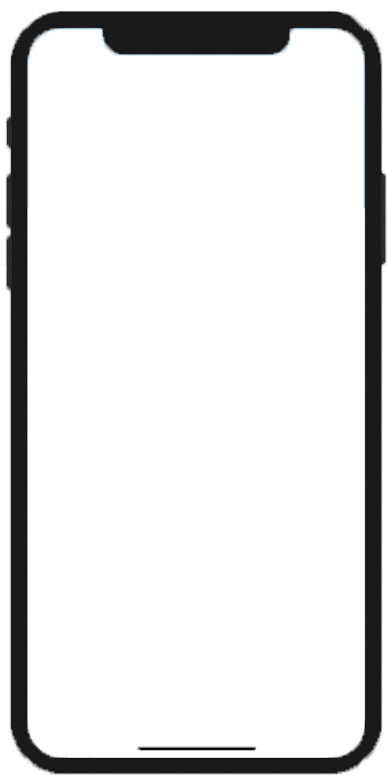
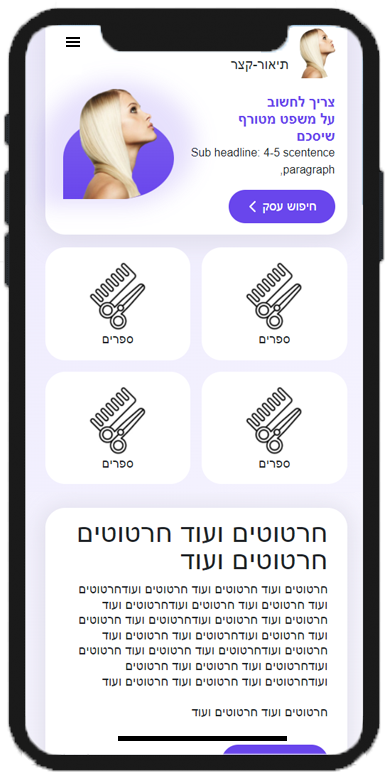
images

Changed region(s): [[0.0, 0.0, 1.0, 1.0], [0.6202, 0.4955, 0.7752, 0.6194], [0.2171, 0.4955, 0.3721, 0.6194]]

diff --git a/Frontend/angular13/src/app/screens/home/home.component.html b/Frontend/angular13/src/app/screens/home/home.component.html
@@ -58,18 +58,9 @@
                         חרטוטים ועודחרטוטים ועוד חרטוטים ועוד
                         חרטוטים ועודחרטוטים ועוד חרטוטים ועוד
                         חרטוטים ועודחרטוטים ועוד חרטוטים ועוד
-                        חרטוטים ועודחרטוטים<br><br> ועוד חרטוטים ועוד
+                        חרטוטים ועודחרטוטים<br>ועוד חרטוטים ועוד
                         חרטוטים ועודחרטוטים ועוד חרטוטים ועוד
-                        חרטוטים ועודחרטוטים ועוד חרטוטים ועוד
-                        חרטוטים ועודחרטוטים ועוד חרטוטים ועוד
-                        חרטוטים ועודחרטוטים ועוד חרטוטים ועוד
-                        חרטוטים ועודחרטוטים ועוד חרטוטים ועוד
-                        חרטוטים ועודחרטוטים ועוד חרטוטים ועוד
-                        חרטוטים ועודחרטוטים ועוד חרטוטים ועוד
-                        חרטוטים ועודחרטוטים ועוד חרטוטים ועוד
-חרטוטים ועודחרטוטים ועוד חרטוטים ועוד
-                        חרטוטים ועודחרטוטים ועוד חרטוטים ועוד
-                        חרטוטים ועוד</div><br><br>
+                        חרטוטים ועודחרטוטיםעודחרטוטים ועוד חרטוטי</div><br><br>
                         <a class="buttonR topR"  routerLink="/business"><div class="textR">חיפוש עסק</div><div class="arrowR"><img class="firstR" src="https://global-uploads.webflow.com/5ff6ce83c48750bc73e44538/5ffab72d5e7fe07221183a6d_Right.svg"><img class="secR" src="https://global-uploads.webflow.com/5ff6ce83c48750bc73e44538/5ffab72d5e7fe07221183a6d_Right.svg"></div></a>
 
                 </div>
@@ -91,13 +82,7 @@
                         חרטוטים ועודחרטוטים ועוד חרטוטים ועוד
                         חרטוטים ועודחרטוטים ועוד חרטוטים ועוד
                         חרטוטים ועוד<br><br>חרטוטים ועוד חרטוטים ועוד
-                        חרטוטים ועודחרטוטים ועוד חרטוטים ועוד
-                        חרטוטים ועודחרטוטים ועוד חרטוטים ועוד
-                        חרטוטים ועודחרטוטים ועוד חרטוטים ועוד
-                        חרטוטים ועוד<br><br>חרטוטים ועוד חרטוטים ועוד
-                        חרטוטים ועודחרטוטים ועוד חרטוטים ועוד
-                        חרטוטים ועודחרטוטים ועוד חרטוטים ועוד
-                        חרטוטים ועודחרטוטים ועוד חרטוטים ועוד
+                        חרטוטים ועודחרטוטים ועוד חרטוחרטוטים ועוד חרטוטים ועוד
                         חרטוטים ועוד</div>
                         <br>
                         <a class="buttonR topR" style="background-color: black;"  routerLink="/business"><div class="textR">חיפוש עסק</div><div class="arrowR"><img class="firstR" src="https://global-uploads.webflow.com/5ff6ce83c48750bc73e44538/5ffab72d5e7fe07221183a6d_Right.svg"><img class="secR" src="https://global-uploads.webflow.com/5ff6ce83c48750bc73e44538/5ffab72d5e7fe07221183a6d_Right.svg"></div></a>
@@ -128,13 +113,7 @@
                         חרטוטים ועודחרטוטים ועוד חרטוטים ועוד
                         חרטוטים ועודחרטוטים ועוד חרטוטים ועוד
                         חרטוטים ועודחרטוטים ועוד חרטוטים ועוד
-                        חרטוטים ועודחרטוטים ועוד חרטוטים ועוד
-                        חרטוטים ועודחרטוטים ועוד חרטוטים ועוד
-                        חרטוטים ועודחרטוטים ועוד חרטוטים ועוד
-                        חרטוטים ועודחרטוטים ועוד חרטוטים ועוד
-                        חרטוטים ועודחרטוטים ועוד חרטוטים ועוד
-                        חרטוטים ועודחרטוטים ועוד חרטוטים ועוד
-                        חרטוטים ועוד</div><br><br>
+                        חרטוטים ועודחרטוטים ועוד חרטוטים</div><br><br>
                         <a class="buttonR topR"  routerLink="/business"><div class="textR">חיפוש עסק</div><div class="arrowR"><img class="firstR" src="https://global-uploads.webflow.com/5ff6ce83c48750bc73e44538/5ffab72d5e7fe07221183a6d_Right.svg"><img class="secR" src="https://global-uploads.webflow.com/5ff6ce83c48750bc73e44538/5ffab72d5e7fe07221183a6d_Right.svg"></div></a>
                         
                     </div>
@@ -156,14 +135,7 @@
                         חרטוטים ועודחרטוטים ועוד חרטוטים ועוד
                         חרטוטים ועודחרטוטים ועוד חרטוטים ועוד
                         חרטוטים ועוד<br><br>חרטוטים ועוד חרטוטים ועוד
-                        חרטוטים ועודחרטוטים ועוד חרטוטים ועוד
-                        חרטוטים ועודחרטוטים ועוד חרטוטים ועוד
-                        חרטוטים ועודחרטוטים ועוד חרטוטים ועוד
-                        חרטוטים ועוד<br><br>חרטוטים ועוד חרטוטים ועוד
-                        חרטוטים ועודחרטוטים ועוד חרטוטים ועוד
-                        חרטוטים ועודחרטוטים ועוד חרטוטים ועוד
-                        חרטוטים ועודחרטוטים ועוד חרטוטים ועוד
-                        חרטוטים ועוד</div>
+                      </div>
                         <br>
                         <a class="buttonR topR"  routerLink="/business"><div class="textR">חיפוש עסק</div><div class="arrowR"><img class="firstR" src="https://global-uploads.webflow.com/5ff6ce83c48750bc73e44538/5ffab72d5e7fe07221183a6d_Right.svg"><img class="secR" src="https://global-uploads.webflow.com/5ff6ce83c48750bc73e44538/5ffab72d5e7fe07221183a6d_Right.svg"></div></a>
 

diff --git a/Frontend/angular13/src/app/screens/home/home.component.scss b/Frontend/angular13/src/app/screens/home/home.component.scss
@@ -295,3 +295,67 @@ div{
 }
 
 
+@media only screen and (max-width: 600px) {
+    .show-menu-btn{
+        padding: 0;
+    }
+    .topcardcontent {
+        .right{
+            .textBox{
+                p{
+                    font-size: 16px;
+                }
+                h2{
+                    font-size: 20px;
+                    font-weight: bolder;
+                }
+            }
+        }
+    }
+    .fullhomepage{
+        padding: 0;
+        margin: 0;
+        .content{
+            padding: 0;
+            margin: 10px 0;
+            h1{
+                font-size: 0;
+            }
+            .slider{
+                margin: 0;
+                grid-template-columns: repeat(2, 1fr);
+                padding: 0;
+                grid-gap: 1rem;
+            }
+        }
+        .boximgtextcolor{
+            display: none;
+        }
+        .textimg{
+            margin-top: 0;
+
+            .slider{
+                display: inherit;
+                .cardR{
+                    display: none;
+                }
+            }
+        }
+        .boximgtext{
+            width: 100%;
+            margin-bottom: 100px;
+            margin-top: 10px;
+            .slider{
+                display: flow-root;
+
+            }
+            img{
+                display: none;
+            }
+            &:hover{
+                transform: scale(1);
+
+        }
+        }
+    }
+}
